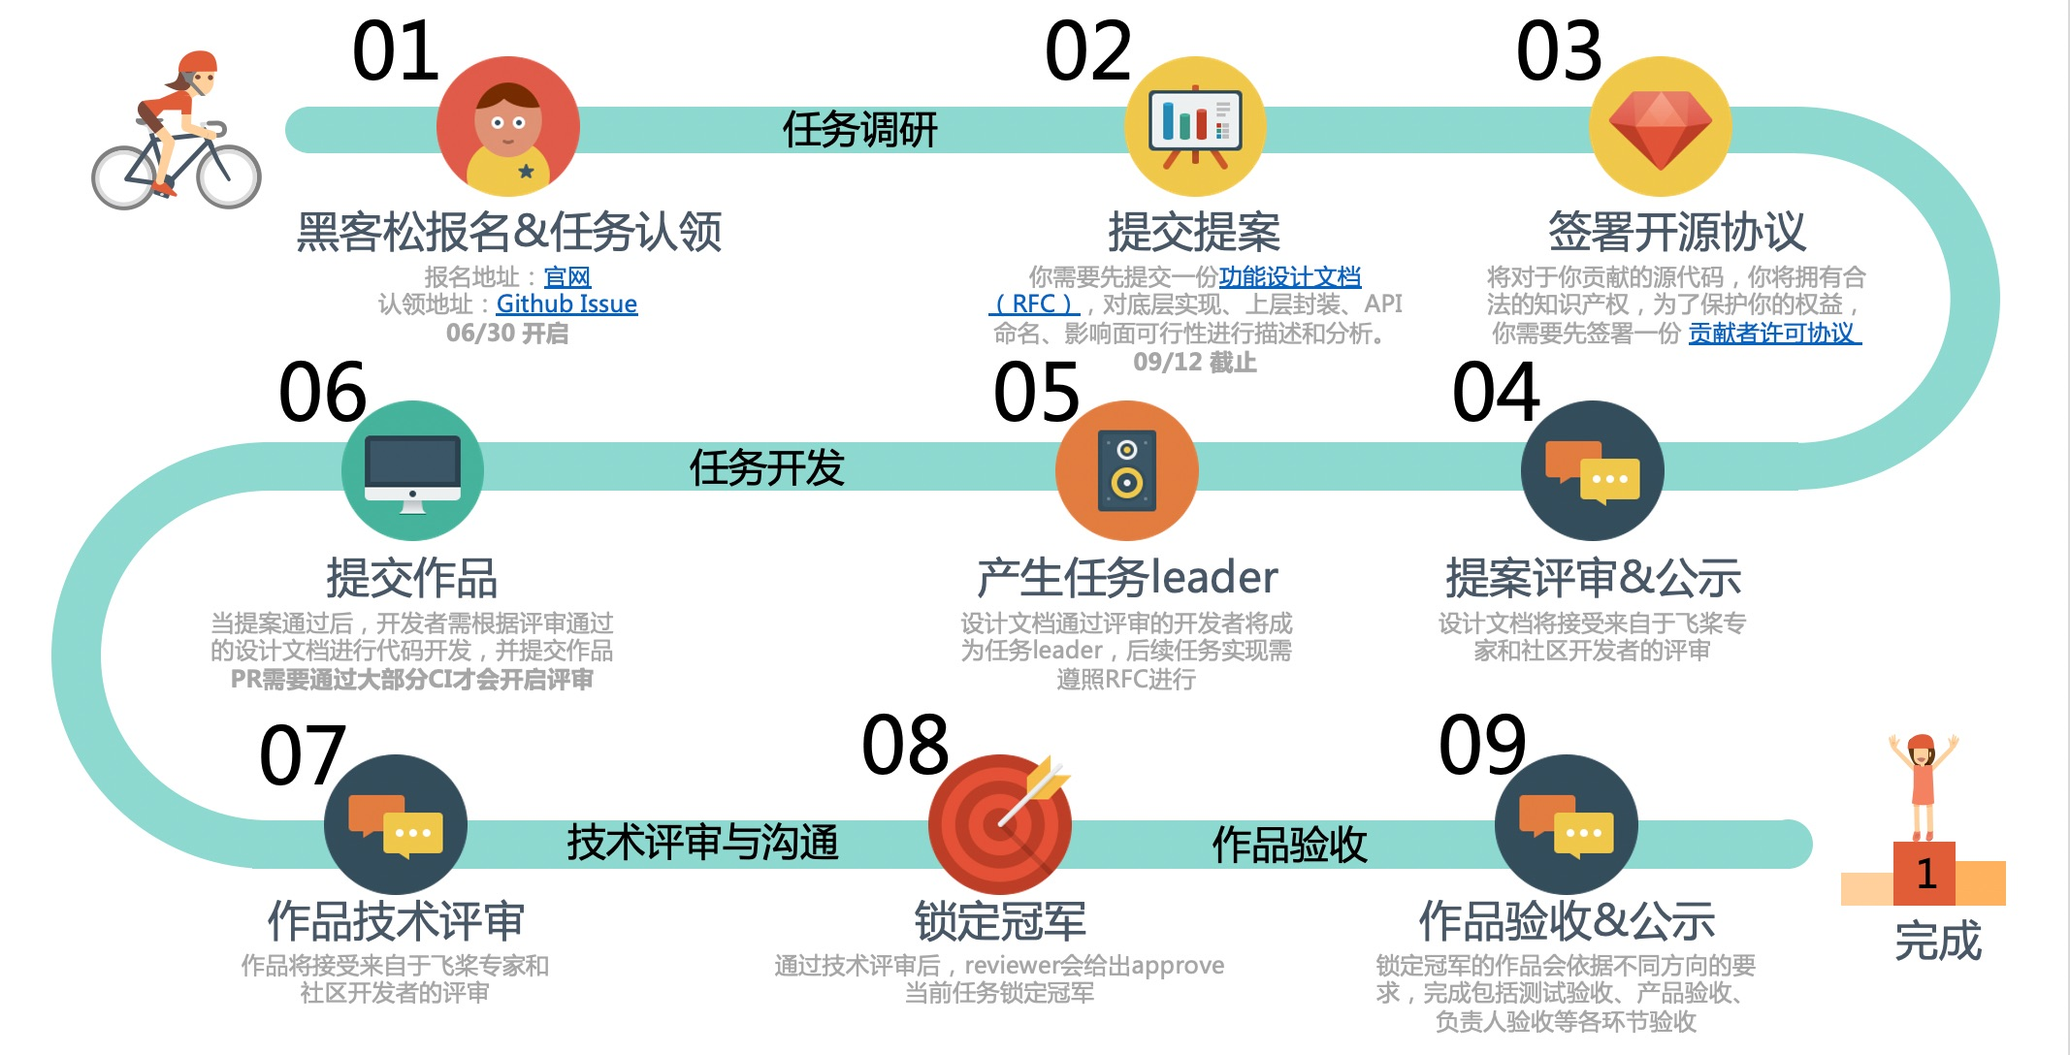
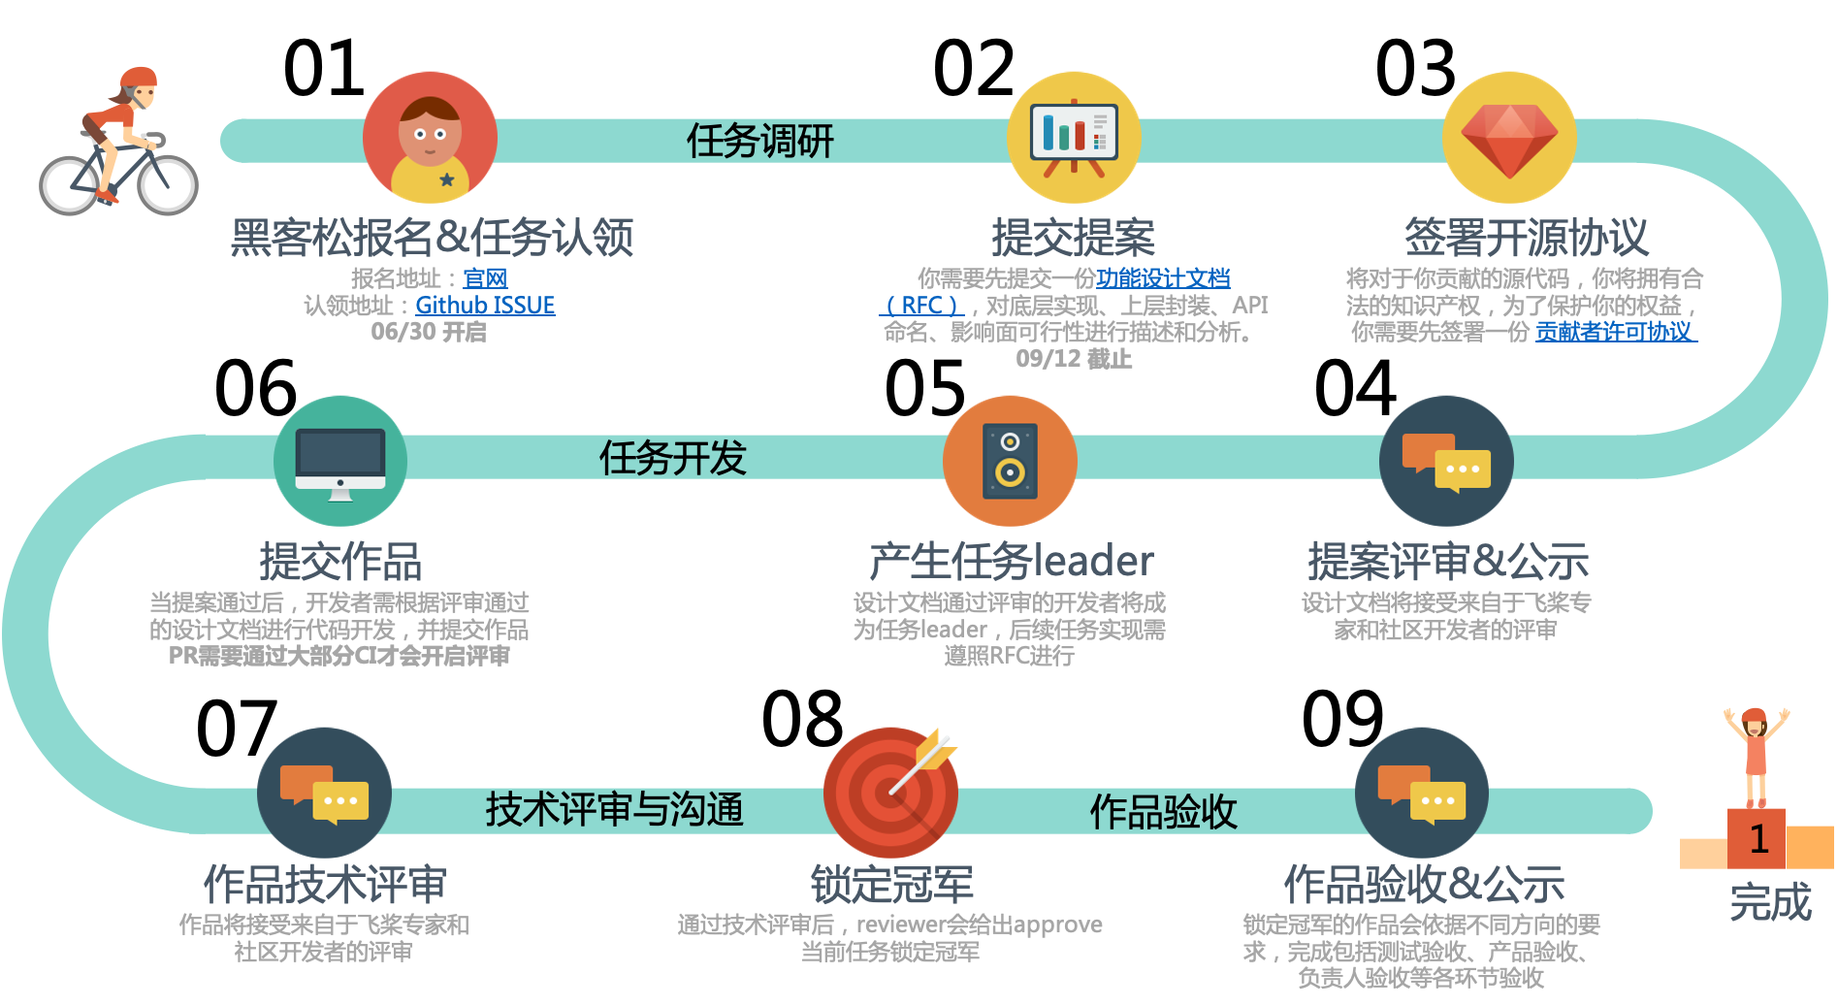
Update hackathon_cn.md (#4967)
* Update hackathon_cn.md

更新活动介绍内容为黑客松第三期

* Update hackathon_cn.md

* Update hackathon_cn.md

* Update hackathon_cn.md

* Update hackathon_cn.md

* Update hackathon_cn.md

* Update hackathon_cn.md

* Update hackathon_cn.md

* Update hackathon_cn.md

* update hackathon#3_process.png

update hackathon#3_process.png，+alpha 通道

Changed region(s): [[0.0, 0.0, 1.0, 1.0]]

diff --git a/docs/guides/10_contribution/hackathon_cn.md b/docs/guides/10_contribution/hackathon_cn.md
@@ -1,54 +1,60 @@
 # 活动介绍
 
-2022 PaddlePaddle Hackathon 飞桨黑客马拉松第二期正式上线，本次活动是面向全球开发者的深度学习领域编程活动，鼓励开发者了解与参与深度学习开源项目。
+2022 PaddlePaddle Hackathon 飞桨黑客马拉松第三期正式上线，本次活动是面向全球开发者的深度学习领域编程活动，鼓励开发者了解与参与深度学习开源项目。
 
-本次飞桨黑客马拉松由飞桨联合深度学习技术及应用国家工程实验室主办，分为热身活动和线上任务两部分。
+本次飞桨黑客马拉松由飞桨联合深度学习技术及应用国家工程研究中心主办，以线上认领任务的形式进行。
 
-热身任务是飞桨框架文档与Paddle Lite文档的使用体验评估，详情可参考 [飞桨体验评测任务第二期](https://github.com/PaddlePaddle/Paddle/issues/40109)。
+你可以个人或组队报名（我们强烈推荐大家组队完成，组队完成提交后，将额外获得飞桨黑客松定制勋章）并认领相应任务，根据任务要求完成相应开发，参与项目共建，任务由 PaddlePaddle、Paddle Family、Paddle Friends、Paddle Insight 四个专区组成，并设有两个难度梯队，任你选择。
 
-线上任务以线上认领任务的形式进行，你可以个人或组队报名（我们强烈推荐大家组队完成，组队完成提交后，将额外获得飞桨黑客松定制勋章）并认领相应任务，根据任务要求完成相应开发，参与项目共建，任务由 PaddlePaddle、Paddle Family、Paddle Friends、Paddle Evaluation 四个专区组成，并有三个难度梯队，任你选择。
-
-对深度学习感兴趣的你，快来参加活动吧，更有机会获得现金奖励以及来自百度和开源社区技术大咖们的指导与经验分享，更多奖励等你来拿。
+对深度学习与开源贡献感兴趣的你，快来参加活动吧，更有机会获得现金奖励以及来自百度和开源社区技术大咖们的指导与经验分享，更多奖励等你来拿！
 
 
 ## 一、活动流程
 
 ### 1、本次活动整体流程如图，具体说明如下：
 
-![](https://github.com/PaddlePaddle/docs/blob/release/2.2/docs/guides/10_contribution/img/hackathon_process.png?raw=text)
+![](https://github.com/PaddlePaddle/docs/blob/release/2.3/docs/guides/10_contribution/img/hackathon%233_process.png?raw=text)
 
-- 1、活动报名：[点击报名](https://www.wjx.top/vj/t8yHphe.aspx?udsid=268437) 填写相关信息，完成活动报名（强烈推荐大家组队完成，组队完成提交后，将额外获得飞桨黑客松定制勋章，PS：该勋章仅该环节可获得）；报名成功后，你可以进入百度飞桨黑客松QQ交流群（群号：343734965），所有活动相关信息都会在群中及时同步；
-- 2、**任务认领** ：首先 fork 你想要认领的任务 ISSUE 所在 repo，然后在 GitHub **[Pinned ISSUE](https://github.com/PaddlePaddle/Paddle/issues/40234)** 按格式相应回复，**完成任务认领**；
-- 3、签署开源协议：将对于你贡献的源代码，你将拥有合法的知识产权，为了保护你的权益，你需要先签署一份[贡献者许可协议](https://cla-assistant.io/PaddlePaddle/Paddle?pullRequest=39047) 
-- 4、**RFC提交**：本次活动绝大多数任务（曙光OP适配除外）都需要先提交RFC（Request for Comments），再进行任务的开发：
+整体会划分为四个阶段：
+
+（一）报名阶段
+
+- 1、**黑客松报名**：进入 [AIStudio](https://aistudio.baidu.com/aistudio/competition/detail/356/0/introduction) 点击【立即报名】（强烈推荐大家组队完成，组队完成任务提交后，将额外获得飞桨黑客松定制勋章，PS：该勋章需组队报名才可获得）。报名成功后，你可以进入百度飞桨黑客松 QQ 交流群（群号：343734965），所有活动相关信息都会在群中及时同步；
+- 2、**任务认领** ： fork 你想要认领的任务 ISSUE 所在代码仓库，在 GitHub ISSUE **[【PaddlePaddle Hackathon 第三期】任务总览](https://github.com/PaddlePaddle/Paddle/issues/43938)** 按格式回复【认领】，**完成任务认领**。
+
+（二）任务调研阶段
+
+- 1、**提交提案**：本次活动绝大多数任务都需要先提交提案，以功能设计文档（RFC，Request for Comments）的形式与飞桨专家和社区开发者确定开发方案后，再进行任务的开发：
     
-    - 首先，请按照任务要求，在 [PaddlePaddle/community/rfc](https://github.com/PaddlePaddle/community) 对应的目录下新建RFC，并对任务进行技术方案设计；
-    - 将 RFC 以 Pull Request(PR) 形式提交，并按 [参考模板](https://www.paddlepaddle.org.cn/contributionguide?docPath=hackathon_cn#youjianmuban) 发送邮件至 paddle-hack@baidu.com，以及在 GitHub **[Pinned ISSUE](https://github.com/PaddlePaddle/Paddle/issues/40234)** 下回复；
+    - 首先，请按照任务要求，在 [PaddlePaddle/community/rfc](https://github.com/PaddlePaddle/community) 对应的目录下新建 RFC，参考 [RFC 设计文档模板](https://github.com/PaddlePaddle/community/blob/master/rfcs/APIs/api_design_template.md)，对任务进行技术方案设计；
+    - 将 RFC 以 Pull Request(PR) 形式提交，并按 [参考模板](https://www.paddlepaddle.org.cn/contributionguide?docPath=hackathon_cn#youjianmuban) 发送邮件至 paddle-hack@baidu.com，以及在 GitHub ISSUE **[【PaddlePaddle Hackathon 第三期】任务总览](https://github.com/PaddlePaddle/Paddle/issues/43938)** 下按格式回复【提交提案】；
     
-    注： [RFC设计文档模板](https://github.com/PaddlePaddle/community/blob/master/rfcs/APIs/api_design_template.md)。
-- 5、设计文档评审&公示：设计文档将接受来自于飞桨专家和社区开发者的评审。    
-    - 黑客松评审组将在每个任务提交的所有有效方案中选择一个最佳方案，确认为本任务的 Leading Developer，并在开发方向上进行一定的指导，完善后的技术方案将会同步给所有任务提交小组，推荐大家基于最佳方案进行相应开发；
+- 2、签署开源协议：对于你贡献的源代码，你将拥有合法的知识产权，为了保护你的权益，你需要签署一份[贡献者许可协议](https://cla-assistant.io/PaddlePaddle/Paddle?pullRequest=39047)；
+- 3、提案评审&公示：设计文档将接受来自于飞桨专家和社区开发者的评审，并在 PR 中讨论开发方案的细节；  
+- 4、**产生任务 leader**：第一个通过设计文档评审的开发者将成为该任务的 leader，后续任务开发需按照设计文档进行；若其他开发者先于任务 leader 提交了作品，则他/她的作品需经过任务 leader 的确认（自@任务leader review 后，7个自然日内无回复默认通过），未按照设计文档开发的作品将不会进入评审阶段。
 
+（三）任务开发阶段
 
-- 5、**任务提交**：完成项目开发后，
+- 1、任务开发：任务描述中要求 RFC 的任务，需在 RFC 通过评审后按照文档进行开发；未要求 RFC 的任务，可根据任务描述直接进行开发；此外，为了让更多开发者参与进来，**API 开发任务（含基础 API 与稀疏 API）每支队伍最多仅能获取一项任务奖金**，建议你选择自己最感兴趣的任务进行开发；
+- 2、**提交作品**：确保**提交内容**完整后，以 Pull Request(PR) 形式提交至指定的代码仓库，待 CI 大部分通过后，依据 [参考模板](https://www.paddlepaddle.org.cn/contributionguide?docPath=hackathon_cn#youjianmuban) 发送邮件至 paddle-hack@baidu.com，在 GitHub ISSUE **[【PaddlePaddle Hackathon 第三期】任务总览](https://github.com/PaddlePaddle/Paddle/issues/43938)** 下按格式回复【提交作品】，启动技术评审。
 
-    - 你需要在相应任务的代码仓库（repo）中提交 Pull Request（需包含任务说明中的提交内容）；
-    - 并在 GitHub **[Pinned ISSUE](https://github.com/PaddlePaddle/Paddle/issues/40234)** 下按格式回复你任务的 Pull Request 地址，依据 [参考模板](https://www.paddlepaddle.org.cn/contributionguide?docPath=hackathon_cn#youjianmuban) 发送提交邮件，**正式完成任务提交**；
+（四）评审与验收阶段
 
+- 1、**作品技术评审**：技术评审启动后，你的作品会指定一位飞桨技术专家进行技术层面的评审与交流，你需要时刻关注反馈并与技术专家沟通作品细节，在通过技术评审后，你会获得技术 approve；
+- 2、锁定冠军：拿到技术 approve 的开发者会被锁定冠军，即该任务不再评审新的作品提交，结果将公示在 GitHub ISSUE **[【PaddlePaddle Hackathon 第三期】任务总览](https://github.com/PaddlePaddle/Paddle/issues/43938)** 中；
+- 3、**作品验收**：锁定冠军的作品会依据任务要求，完成后续多个环节的验收，包括但不限于：测试验收、产品验收、负责人验收等，每一次验收通过相关人员均会给出 approve，但**请注意只有最终被 merge 才算正式通过作品验收，拿到最终的奖励。**
 
-- 6、在任务提交后 3 个工作日内，黑客松评审组将对作品进行验收并回复邮件。如果该作品符合要求，黑客松评审组将会及时宣布该任务已被完成并更新活动相关信息，**该任务后续不再验收其他提交**。
 
 ### 2、活动日程安排
 
 | **时间**                   | **日程**                                                     |
 | -------------------------- | ------------------------------------------------------------ |
-| **2022/03/08 20:00 GMT+8** | 活动开启（报名开启，任务认领、作品提交、开放性任务提交通道同步开启） |
-| **2022/03/31 23:59 GMT+8** | 提案截止（提案提交通道关闭）                   |
-| **2022/04/02 23:59 GMT+8** | 名单公布（公布任务对应最佳提案，为该任务 Leading Developer） |
-| **2022/04/22 23:59 GMT+8** | 报名截止（本次活动报名通道关闭） |
-| **2022/04/29 23:59 GMT+8** | 最终评估（任务认领、作品提交、开放性任务提交通道关闭，作品进入最终评估环节） |
-| **2022/05/10**             | 结果公示（作品以及获奖团队/个人公布）                        |
-| **2022/05/20**             | 颁奖仪式（WAVE SUMMIT+深度学习开发者峰会）                   |
+| **2022/06/30 20:00 GMT+8** | 活动开启（报名开启，任务认领、作品提交通道同步开启） |
+| **2022/08/11 20:00 GMT+8** | 中期大会（所有开发者和飞桨产研共同交流）                   |
+| **2022/09/12 23:59 GMT+8** | 提案截止 & 报名截止（任务提案提交截止，本次活动报名通道关闭） |
+| **2022/09/19 23:59 GMT+8** | 最终评估（任务认领、作品提交通道关闭，作品进入最终评估环节） |
+| **2022/09/29 23:59 GMT+8** | 结果公示（作品以及获奖团队/个人公布） |
+
 
 ## 二、奖项设置
 
@@ -56,27 +62,16 @@
 
 根据任务难度划分，完成所选任务并通过黑客松评审组验收，将可获得对应金额现金奖励。
 
-PS：
-
-1. 若一个任务出现两个及以上作品提交，将根据提交 Pull Request的时间顺序进行验收，第一个通过验收的作品可获得奖金。
-2. 若该任务仅有一个作品提交，未100%完成但完成部分足够优质，经评审组评审后，可根据完成进度按照对应比例进行现金奖励发放。
-
-
 | **难度** | **标志** | **金额** |
 | --- | --- | --- |
-| 困难 | **⭐ ⭐ ⭐** | ￥10,000/任务 |
-| 中等 | **⭐ ⭐**   | ￥5,000/任务  |
-| 简单 | **⭐**     | ￥1,000/任务  |
+| 进阶 | **⭐ ⭐**   | ￥10,000/任务  |
+| 基础 | **⭐**     | ￥3,000/任务  |
 
 **特别说明：**
 
-如果一个任务，其他开发者完成了RFC的合入，你仍然可以继续报名这个任务，根据已经通过的RFC进行代码开发；当然，你也可以联系RFC作者组成小组，联合开发，效率更高；若你的代码逻辑和RFC不一致，将不会被 review 。
-
-- 若 RFC 合入，并且 PR 被合入：
-  - RFC 作者与 PR 作者不为同一人：RFC 作者获得该任务奖金的10%，PR 作者获得该任务奖金的90%
-  - RFC 作者与 PR 作者协作完成：奖金发给小组，自由分配
-  - RFC 作者与 PR 作者为一人：100%
-- RFC 合入，但无 PR 提交：无奖金!
+1. 若一个任务出现两个及以上作品提交，将根据提交 Pull Request 的最后一个 commit 的时间顺序进行验收，第一个通过验收的作品可获得奖金；
+2. 若该任务仅有一个作品提交，未100%完成但完成部分足够优质，经评审组评审后，可根据完成进度按照对应比例进行现金奖励发放；
+3. 若一个任务的**提案**与**作品**非同一人提交，则提交的作品需基于提案设计完成开发，并拿到任务 leader（即通过提案的开发者）的确认（自@任务leader review 后，7个自然日内无回复默认通过），奖金最终会发给作品通过验收的开发者。
 
 
 ### 2、特别奖项
@@ -90,13 +85,13 @@ PS：
 
 ### 3、其他奖励
 
-- 活动中完成任务的开发者，可获得百度招聘绿色通道
+- 活动中完成任务的开发者，可获得百度招聘绿色通道；
 
-- 活动中完成任务的开发者，均可获得百度开源证书奖励
+- 活动中完成任务的开发者，均可获得百度开源证书奖励。
 
 #### **特别注意：**
 
-**1. 以上所有提及金额均为税前金额。**
+**1. 以上所有提及金额均为税前金额；**
 
 **2. 任务奖项评定需开发者提供完整作品（包括任务对应提交内容以及活动总结等）及团队成员名单。**
 
@@ -114,29 +109,31 @@ PS：
 
 - 2、活动须知
 
-（1）支持以个人或团队的形式报名并认领任务，允许跨单位自由组队（强烈推荐大家组队完成，组队完成提交后，将额外获得飞桨黑客松定制勋章，PS：该勋章仅该环节可获得）；
+（1）支持以个人或团队的形式报名并认领任务，允许跨单位自由组队（强烈推荐大家组队完成，组队完成提交后，将额外获得飞桨黑客松定制勋章，PS：该勋章需组队报名才可获得）；
 
 （2）报名须保证所提供的个人信息真实、准确、有效。如发放奖金或礼品时发现报名人员填写的报名信息与个人身份不相符，组委会将保留停止发放奖金或礼品的权利。
 
 - 3、活动报名
 
-（1）2022年3月8日至2022年4月22日，首先在活动官网完成报名。若组队报名，则由队长统一填写报名信息，完成报名即可；
+（1）2022年6月30日至2022年9月12日，首先在活动官网完成报名。若组队报名，则由队长统一填写报名信息，完成报名即可；
 
-（2）在GitHub 的 [Pinned ISSUE](https://github.com/PaddlePaddle/Paddle/issues/40234) 中，可以查看到本次活动的所有任务，选取感兴趣的任务，按格式回复 队名、任务序号、任务对应 fork 链接，即为完成任务认领。
+（2）在 GitHub ISSUE **[【PaddlePaddle Hackathon 第三期】任务总览](https://github.com/PaddlePaddle/Paddle/issues/43938)** 中，可以查看到本次活动的所有任务，选取感兴趣的任务，按格式回复 队名、任务序号、任务对应 fork 链接，即为完成任务认领。
 
 **补充信息**：
 
-（1）**组队报名方法**：需所有队员均填写 [报名问卷](https://www.wjx.top/vj/t8yHphe.aspx?udsid=268437) 中的报名信息。若报名信息有误，请联系工作人员进行组队；
+（1）**组队报名方法**：队长确认报名后，点击【复制链接邀请队员】，并将【您的好友邀请您组队参赛，详情查看：xxx】内容发送给**1名**即将加入队伍的队员，队员完善信息后可在“我的团队”中查看，此时表明队长已成功邀请**1名**队员加入战队。重复上述方法邀请更多队员加入战队，上限人数**3人**；
 
-（2）官方交流群 【飞桨黑客松QQ交流群】：343734965。
+（2）**组队报名注意**：邀请队员仅在**比赛报名截止前**有效，邀请链接仅用于**单名队员**加入。自比赛报名截止前一天起，队长不得转让队长身份、解散团队、移除队员，队员不得离开团队；
+
+（3）**官方交流群 【飞桨黑客松QQ交流群】**：343734965。
 
 - 4、任务开发
 
-当你完成相应开发后，相应的代码需要以 Pull Request 的形式上传到任务 ISSUE 所在仓库，并在 [Pinned ISSUE](https://github.com/PaddlePaddle/Paddle/issues/40234) 中，按格式回复相关的提交信息。黑客松评审组一般会在3个工作日内给出作品反馈，如果符合任务要求，则实时通报该任务已经被完成。
+当你完成相应开发后，相应的代码需要以 Pull Request 的形式上传到任务 ISSUE 所在仓库，并在 GitHub ISSUE **[【PaddlePaddle Hackathon 第三期】任务总览](https://github.com/PaddlePaddle/Paddle/issues/43938)** 中，按格式回复相关的提交信息。黑客松评审组一般会在3个工作日内给出作品反馈，如果符合任务要求，则实时通报该任务已经被完成。
 
 **注意**：
 
-（1）活动评审会会**按日更新**所有任务的状态信息到 [Pinned ISSUE](https://github.com/PaddlePaddle/Paddle/issues/40234) 中；
+（1）活动评审会会**按日更新**所有任务的状态信息到 GitHub ISSUE **[【PaddlePaddle Hackathon 第三期】任务总览](https://github.com/PaddlePaddle/Paddle/issues/43938)** 中；
 
 （2）如果发现有恶意提交或抄袭等不正当行为，将会取消参与活动资格。
 
@@ -146,7 +143,7 @@ PS：
 
 ## 四、重磅福利
 
-为了帮助大家更快更好的完成任务内容开发，本次活动预计会有10+系列直播同步推出，针对通用开发流程、PaddlePaddle框架、基础API开发、曙光OP适配、Paddle Lite、Paddle2ONNX、PaddleDTX、飞桨科学计算等相关项目技术讲解、开源社区贡献等内容，都有来自百度等深耕该方向的工程师深入讲解，系列直播时间安排，敬请期待。
+为了帮助大家更快更好的完成任务内容开发，本次活动预计会有10+系列直播同步推出，针对通用开发流程、PaddlePaddle框架、基础API开发、稀疏API开发、算子性能优化、PaddleDTX、飞桨科学计算等相关项目技术讲解、开源社区贡献等内容，都有来自百度等深耕该方向的工程师深入讲解，系列直播时间安排，敬请期待。
 
 
 ## 五、反作弊声明
@@ -161,9 +158,9 @@ PS：
 
 ## 邮件模板
 
-### 提交 RFC
+### 提交提案
 
-标题： [Hackathon No.任务编号] RFC提交
+标题： [Hackathon No.任务编号] 提交提案
 
 内容：
 
@@ -173,13 +170,13 @@ PS：
 
 【序号】：任务编号
 
-【状态】：RFC提交
+【状态】：提交提案
 
-【PR链接】：你的PR链接
+【PR链接】：你的 PR 链接
 
 如：
 
-标题： [Hackathon No.100] RFC提交
+标题： [Hackathon No.100] 提交提案
 
 内容：
 
@@ -189,14 +186,14 @@ PS：
 
 【序号】：100
 
-【状态】：RFC提交
+【状态】：提交提案
 
 【PR链接】：https://github.com/PaddlePaddle/community/pull/1
 
 
-### 提交 PR
+### 提交作品
 
-标题： [Hackathon No.任务编号] PR提交
+标题： [Hackathon No.任务编号] 提交作品
 
 内容：
 
@@ -206,13 +203,13 @@ PS：
 
 【序号】：任务编号
 
-【状态】：PR提交
+【状态】：提交作品
 
-【PR链接】：你的PR链接
+【PR链接】：你的 PR 链接
 
 如：
 
-标题： [Hackathon No.100] PR提交
+标题： [Hackathon No.100] 提交作品
 
 内容：
 
@@ -222,6 +219,6 @@ PS：
 
 【序号】：100
 
-【状态】：PR提交
+【状态】：提交作品
 
 【PR链接】：https://github.com/PaddlePaddle/Paddle/pull/1
